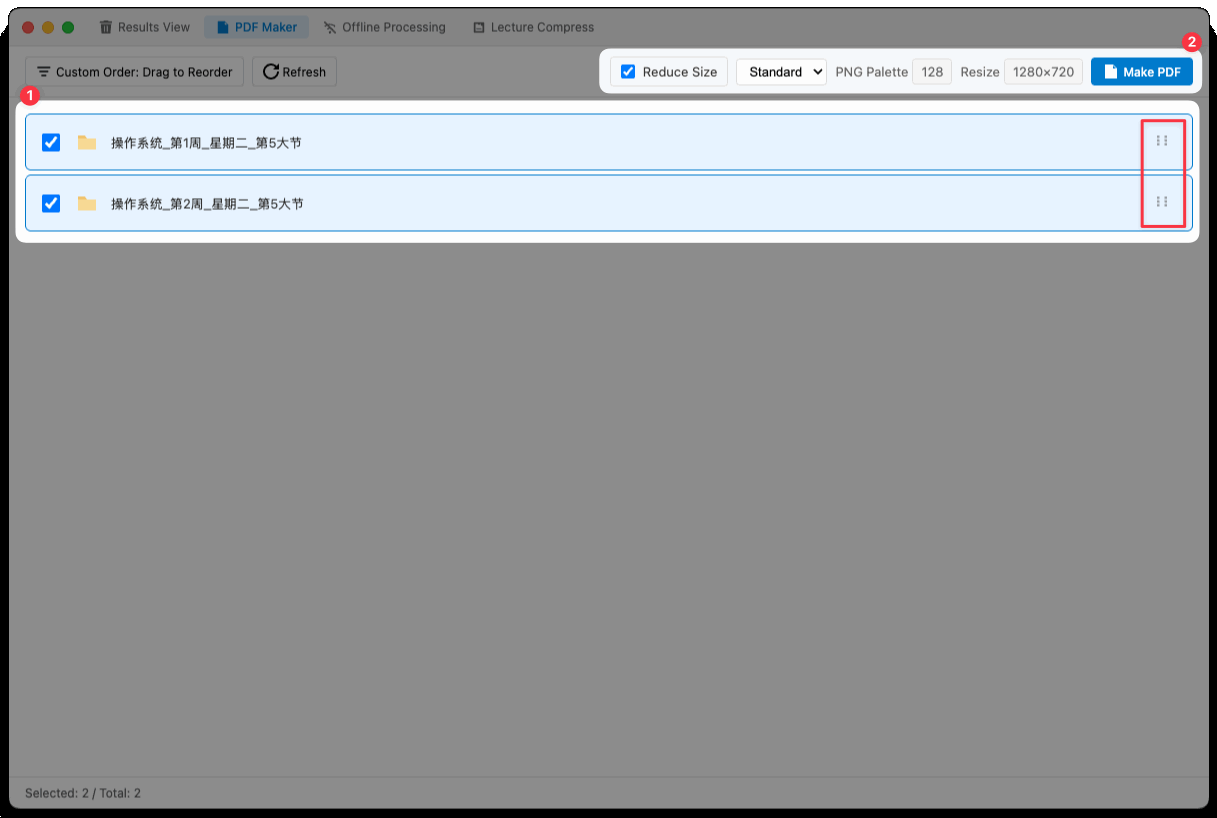
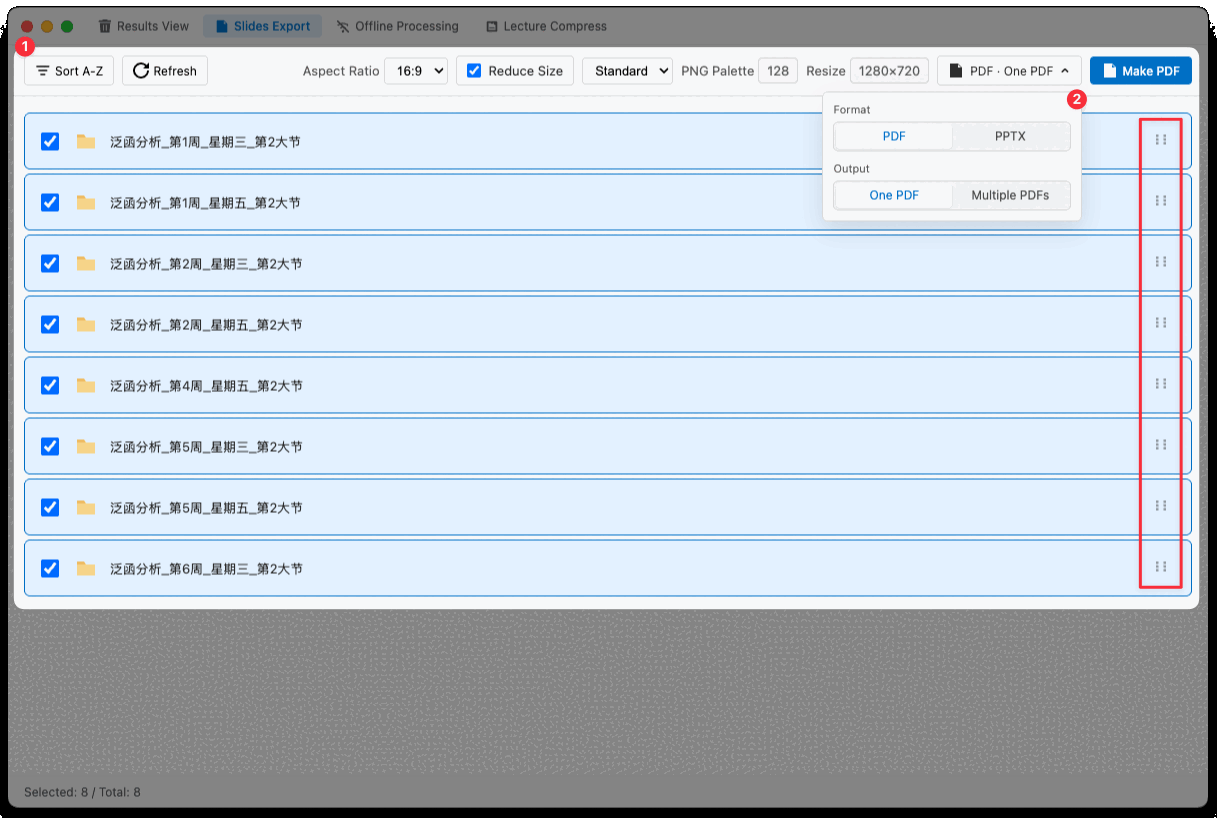
11.5 release 4.3.0

diff --git a/autoslides/src/main/llmApiService.ts b/autoslides/src/main/llmApiService.ts
@@ -561,7 +561,9 @@ export class LLMApiService {
     }
 
     let lastError: LLMError | null = null;
-    for (const model of candidates) {
+    for (let i = 0; i < candidates.length; i++) {
+      const model = candidates[i];
+      const nextModel: string | undefined = candidates[i + 1];
       const result = await this.makeChatCompletionRequest(model, input);
       if (result.ok) return result;
 
@@ -569,11 +571,19 @@ export class LLMApiService {
       if (result.error.kind === 'quota_exceeded') {
         this.markExhausted(providerId, input.baseUrl, model);
         options?.onModelExhausted?.(model);
-        console.warn(`[LLM] Model quota exceeded, trying next in chain: ${model}`);
+        console.warn(
+          nextModel
+            ? `[LLM] ${model} quota exceeded, advancing to next in chain: ${nextModel}`
+            : `[LLM] ${model} quota exceeded, chain exhausted`
+        );
         continue;
       }
       if (providerId === 'modelscope' && isEmptyChoicesError(result.error)) {
-        console.warn(`[LLM] Model returned empty choices, trying next in chain: ${model}`);
+        console.warn(
+          nextModel
+            ? `[LLM] ${model} returned empty choices, advancing to next in chain: ${nextModel}`
+            : `[LLM] ${model} returned empty choices, chain exhausted`
+        );
         continue;
       }
       // Other errors don't benefit from trying a different model — fail fast.

diff --git a/README.md b/README.md
@@ -335,8 +335,8 @@
 
 #### H. 将幻灯片导出为 PDF
 
-1. 转到 `PDF 导出` 页面，选择需要导出的文件夹（例如一学期的课程）。文件夹默认按自然顺序排列，也可以拖动调整；文件夹名称和顺序将决定 PDF 大纲标题与章节顺序。
-2. 根据需要调整 `压缩选项` 和 `宽高比`，然后点击 `生成 PDF`。
+1. 转到 `幻灯片导出` 页面，选择需要导出的文件夹（例如一学期的课程）。文件夹默认按自然顺序排列，也可以拖动调整；文件夹名称和顺序将决定 PDF 大纲标题与章节顺序。
+2. 根据需要调整 `压缩选项` 和 `宽高比`，在 `PDF` 和 `PPTX` 中选择导出格式，以及选择 `合并所有文件夹为一个文件` 或 `批量导出多个文件夹为多个文件`，然后点击生成。
 
 <p align="center">
   <img src="docs/step13.png" width="70%" alt="step13" />